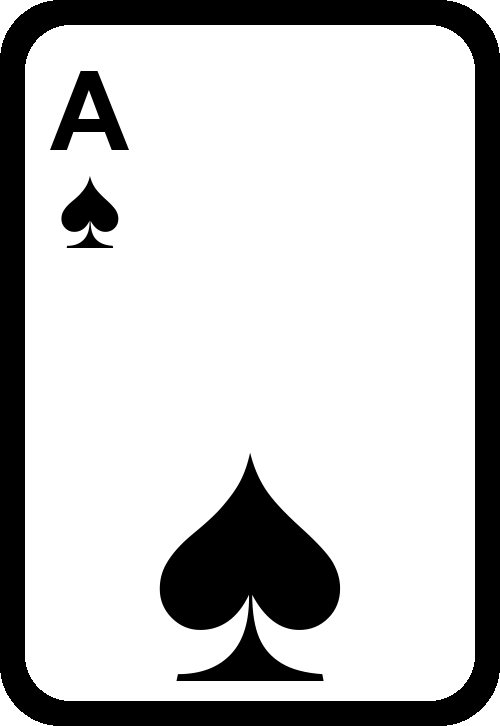
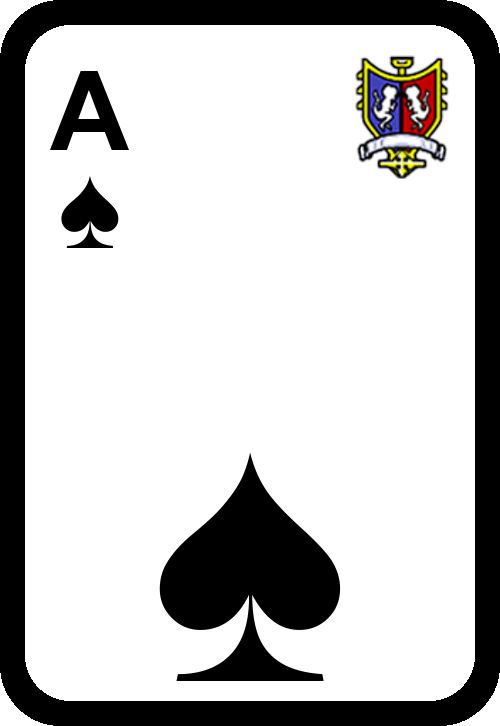
Update pixel cards and generated assets

Changed region(s): [[0.69, 0.0606, 0.9, 0.2424]]

diff --git a/generate_pixel_cards.py b/generate_pixel_cards.py
@@ -30,7 +30,8 @@ SUITS = {
 FACE_CARD_IMAGES = {
     'J': os.path.join(ASSETS_DIR, "jack.png"),
     'Q': os.path.join(ASSETS_DIR, "queen.png"),
-    'K': os.path.join(ASSETS_DIR, "king.png")
+    'K': os.path.join(ASSETS_DIR, "king.png"),
+    'A': os.path.join(ASSETS_DIR, "ace.png")
 }
 
 # === Font Loading ===
